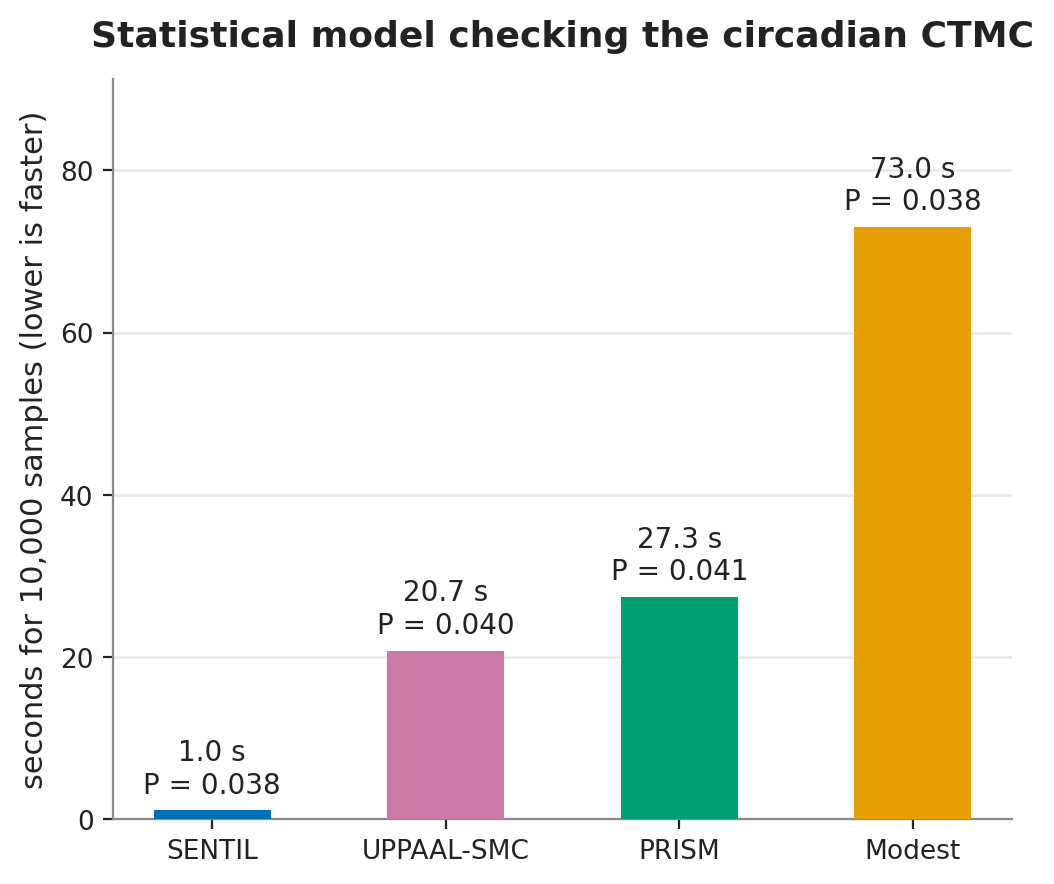
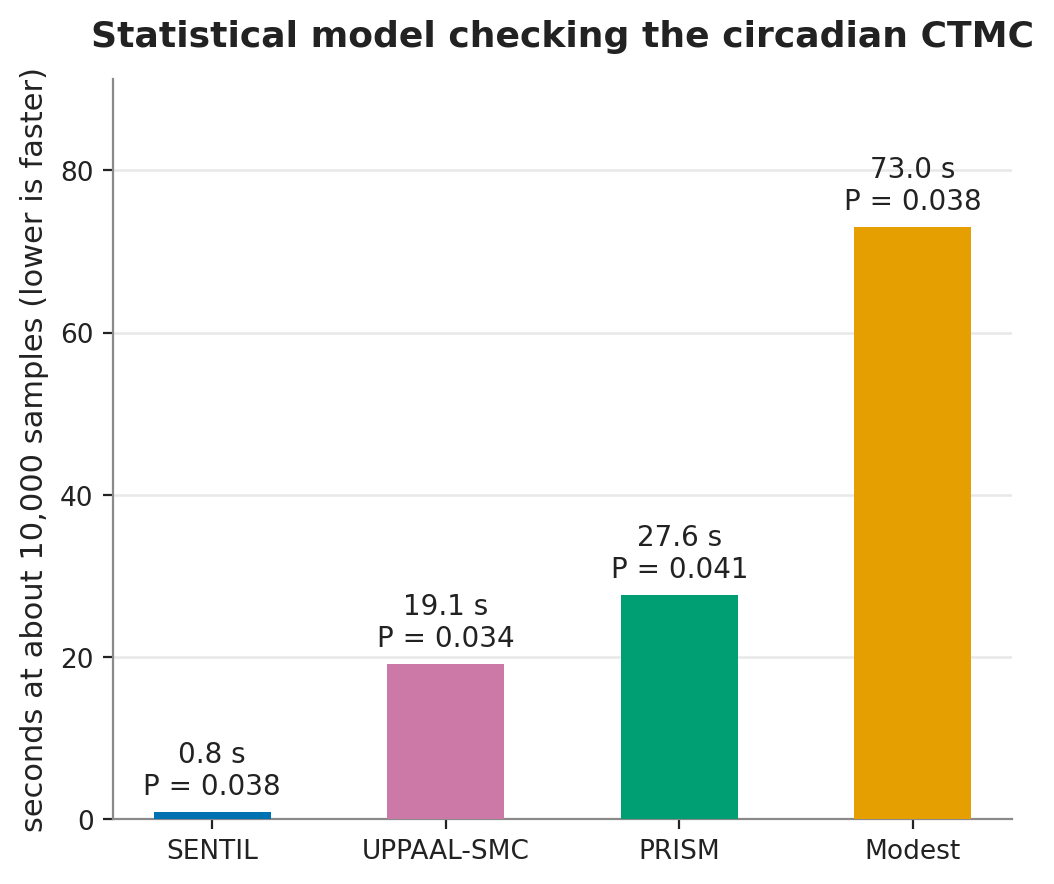
A chart per shared model, not just the circadian one

diff --git a/benchmarks/runners/plot.py b/benchmarks/runners/plot.py
@@ -277,9 +277,9 @@ def particles(records):
     ax.legend(loc="upper right")
     save(fig, "particles.png")
 
-def smc_circadian(records):
+def smc_model(records, benchmark, title, out):
     def pick(tool):
-        return next((r for r in records if r.get("benchmark") == "smc/circadian" and r.get("tool") == tool), None)
+        return next((r for r in records if r.get("benchmark") == benchmark and r.get("tool") == tool), None)
     s, p = pick("sentil"), pick("prism")
     if not s or not p:
         return
@@ -294,13 +294,19 @@ def smc_circadian(records):
     secs = [r["time_ms"] / 1000.0 for _, r, _ in bars]
     probs = [r["probability"] for _, r, _ in bars]
     rects = ax.bar(tools, secs, color=[c for _, _, c in bars], width=0.5, zorder=3)
-    ax.set_ylabel("seconds for 10,000 samples (lower is faster)")
-    ax.set_title("Statistical model checking the circadian CTMC")
+    ax.set_ylabel("seconds at about 10,000 samples (lower is faster)")
+    ax.set_title(title)
     ax.set_ylim(top=max(secs) * 1.25)
     for rect, sec, pr in zip(rects, secs, probs):
         ax.text(rect.get_x() + rect.get_width() / 2, sec + max(secs) * 0.02,
                 f"{sec:.1f} s\nP = {pr:.3f}", ha="center", va="bottom", fontsize=10, color=style.INK)
-    save(fig, "smc_circadian.png")
+    save(fig, out)
+
+def smc_circadian(records):
+    smc_model(records, "smc/circadian", "Statistical model checking the circadian CTMC", "smc_circadian.png")
+
+def smc_tandem_queue(records):
+    smc_model(records, "smc/tandem_queue", "Statistical model checking the tandem queue", "smc_tandem_queue.png")
 
 def synthesis(records):
     rows = [r for r in records if "mode" in r]
@@ -324,7 +330,7 @@ def main():
         return
     for figure in (discrete_offline, dense_offline, dense_cost, streaming_online,
                    scaling, memory, smc_throughput, smc_accuracy, smc_circadian,
-                   particles, synthesis):
+                   smc_tandem_queue, particles, synthesis):
         figure(records)
     for lang, label in (("c", "C ABI"), ("cpp", "C++"), ("python", "Python"),
                         ("julia", "Julia"), ("java", "Java"), ("matlab", "MATLAB")):
